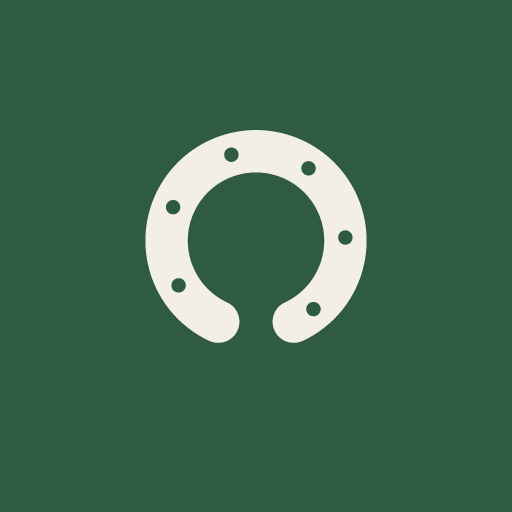
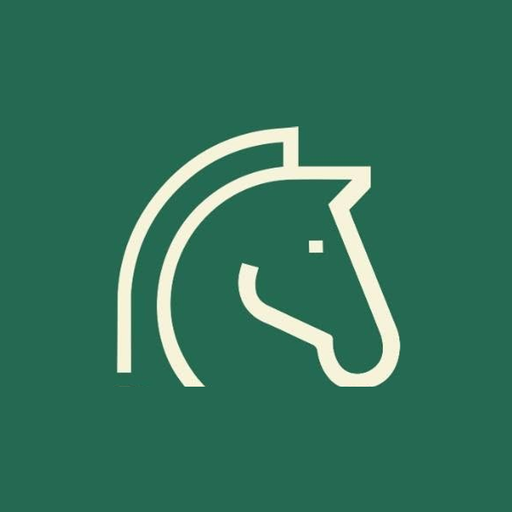
Usa o logótipo do clube: símbolo em pequeno, lockup em grande
O logótipo é um lockup — símbolo mais o nome. A 34px na barra lateral o
lettering virava uma mancha, e ainda por cima repetia o nome escrito ao lado.

scripts/extrair-simbolo.mjs recorta a cabeça de cavalo para public/marca/
simbolo.png. O recorte não podia ser uma banda vertical: o focinho e o
lettering sobrepõem-se na horizontal, e uma banda apanhava sempre pedaços de
letras. As coordenadas são as desta imagem e estão documentadas como tal.

- components/marca.tsx usa o símbolo em pequeno e o lockup completo no ecrã de
  entrada, onde a 132px se lê — e aí deixa cair o nome em texto, que a imagem
  já traz.
- Os ícones da aplicação instalada passam a sair do símbolo: um ícone é visto a
  48px, onde o lockup seria ilegível.
- Sem os ficheiros da marca, tudo continua a funcionar com a ferradura de
  reserva, do mesmo tamanho e forma.

Claude-Session: https://claude.ai/code/session_01DunyXTCBSPWePTY2vKBcKY

Changed region(s): [[0.2188, 0.25, 0.7812, 0.7812]]

diff --git a/components/marca.tsx b/components/marca.tsx
@@ -4,25 +4,38 @@ import Image from 'next/image'
 import { cn } from '@/lib/utils'
 
 /*
- * Basta pôr o logótipo em public/marca/ com o nome `logotipo` e uma destas
- * extensões, e ele passa a aparecer em todo o lado — não é preciso mexer em
- * código. Enquanto não existir, fica a ferradura desenhada aqui, com a mesma
- * forma e o mesmo tamanho, para o arranjo da página não dar um salto quando o
- * logótipo entrar.
+ * A marca do clube tem duas peças, e servem para coisas diferentes:
+ *
+ *   public/marca/logotipo.*  — o lockup completo, símbolo mais o nome. Usado
+ *                              em grande, onde o lettering se lê.
+ *   public/marca/simbolo.*   — só a cabeça de cavalo, quadrada. Usado em
+ *                              pequeno, onde o lockup vira mancha e repetiria
+ *                              o nome que já está escrito ao lado.
+ *
+ * Basta pôr os ficheiros lá e passam a aparecer — não é preciso mexer em
+ * código. Sem eles fica uma ferradura desenhada aqui, com a mesma forma e
+ * tamanho, para o arranjo não dar um salto quando entrarem.
+ * `scripts/extrair-simbolo.mjs` gera o símbolo a partir do logótipo.
  *
  * A procura corre uma vez por processo: os ficheiros de public/ não mudam
  * entre pedidos, mudam entre deployments.
  */
 const EXTENSOES = ['png', 'jpg', 'jpeg', 'webp', 'svg'] as const
 
-const FICHEIRO_LOGOTIPO =
-  EXTENSOES.map((extensao) => `marca/logotipo.${extensao}`).find((relativo) =>
-    fs.existsSync(path.join(process.cwd(), 'public', relativo)),
-  ) ?? null
+function procurar(base: string) {
+  return (
+    EXTENSOES.map((extensao) => `marca/${base}.${extensao}`).find((relativo) =>
+      fs.existsSync(path.join(process.cwd(), 'public', relativo)),
+    ) ?? null
+  )
+}
+
+const LOCKUP = procurar('logotipo')
+const SIMBOLO = procurar('simbolo') ?? LOCKUP
 
 const TAMANHOS = {
-  compacto: { lado: 36, texto: 'text-base', sobretitulo: 'text-[0.6rem]' },
-  grande: { lado: 84, texto: 'text-2xl', sobretitulo: 'text-xs' },
+  compacto: { lado: 34, texto: 'text-base', sobretitulo: 'text-[0.6rem]' },
+  grande: { lado: 132, texto: 'text-2xl', sobretitulo: 'text-xs' },
 } as const
 
 export function Marca({
@@ -36,42 +49,71 @@ export function Marca({
   className?: string
 }) {
   const { lado, texto, sobretitulo } = TAMANHOS[tamanho]
-  const vertical = tamanho === 'grande'
+  const grande = tamanho === 'grande'
+
+  // Em grande, o lockup já traz o nome — escrevê-lo outra vez por baixo seria
+  // dizer a mesma coisa duas vezes.
+  const nomeNaImagem = grande && LOCKUP !== null
+  const mostrarNome = !semTexto && !nomeNaImagem
 
   return (
     <span
       className={cn(
         'flex items-center gap-3',
-        vertical && 'flex-col gap-2 text-center',
+        grande && 'flex-col gap-3 text-center',
         className,
       )}
     >
-      <Simbolo lado={lado} />
+      {!semTexto && grande ? (
+        <span
+          className={cn(
+            'block font-medium uppercase tracking-[0.2em] text-muted-foreground',
+            sobretitulo,
+          )}
+        >
+          Centro Hípico
+        </span>
+      ) : null}
 
-      {semTexto ? null : (
-        <span className={cn(vertical && 'flex flex-col items-center')}>
-          <span
-            className={cn(
-              'block font-medium uppercase tracking-[0.2em] text-muted-foreground',
-              sobretitulo,
-            )}
-          >
-            Centro Hípico
-          </span>
+      {nomeNaImagem ? (
+        <Image
+          src={`/${LOCKUP}`}
+          alt="Quinta da Figueira"
+          width={lado}
+          height={lado}
+          className="shrink-0 rounded-xl"
+          priority
+        />
+      ) : (
+        <Simbolo lado={lado} />
+      )}
+
+      {mostrarNome ? (
+        <span className={cn(grande && 'flex flex-col items-center')}>
+          {!grande ? (
+            <span
+              className={cn(
+                'block font-medium uppercase tracking-[0.2em] text-muted-foreground',
+                sobretitulo,
+              )}
+            >
+              Centro Hípico
+            </span>
+          ) : null}
           <span className={cn('block font-semibold tracking-tight', texto)}>
             Quinta da Figueira
           </span>
         </span>
-      )}
+      ) : null}
     </span>
   )
 }
 
 function Simbolo({ lado }: { lado: number }) {
-  if (FICHEIRO_LOGOTIPO) {
+  if (SIMBOLO) {
     return (
       <Image
-        src={`/${FICHEIRO_LOGOTIPO}`}
+        src={`/${SIMBOLO}`}
         alt="Quinta da Figueira"
         width={lado}
         height={lado}
@@ -81,7 +123,7 @@ function Simbolo({ lado }: { lado: number }) {
     )
   }
 
-  // Reserva com a forma do logótipo: quadrado verde, desenho a creme.
+  // Reserva com a forma do símbolo: quadrado verde, desenho a creme.
   return (
     <span
       aria-hidden

diff --git a/public/marca/LEIA-ME.md b/public/marca/LEIA-ME.md
@@ -20,3 +20,19 @@ logótipo entrar.
 
 Depois de o pores, vale a pena regenerar também os ícones da aplicação
 instalável — ver `scripts/gerar-icones.mjs`.
+
+## Símbolo
+
+`simbolo.png` é só a cabeça de cavalo, quadrada, e é usado onde a marca aparece
+pequena — barra lateral, cabeçalho do telemóvel, ícone da aplicação instalada.
+O lockup completo fica reservado para o ecrã de entrada, onde o lettering se lê.
+
+Gera-se a partir do logótipo:
+
+```bash
+node scripts/extrair-simbolo.mjs
+node scripts/gerar-icones.mjs
+```
+
+Se trocares o logótipo, corre os dois — as coordenadas do recorte em
+`extrair-simbolo.mjs` são as deste desenho e podem precisar de revisão.
